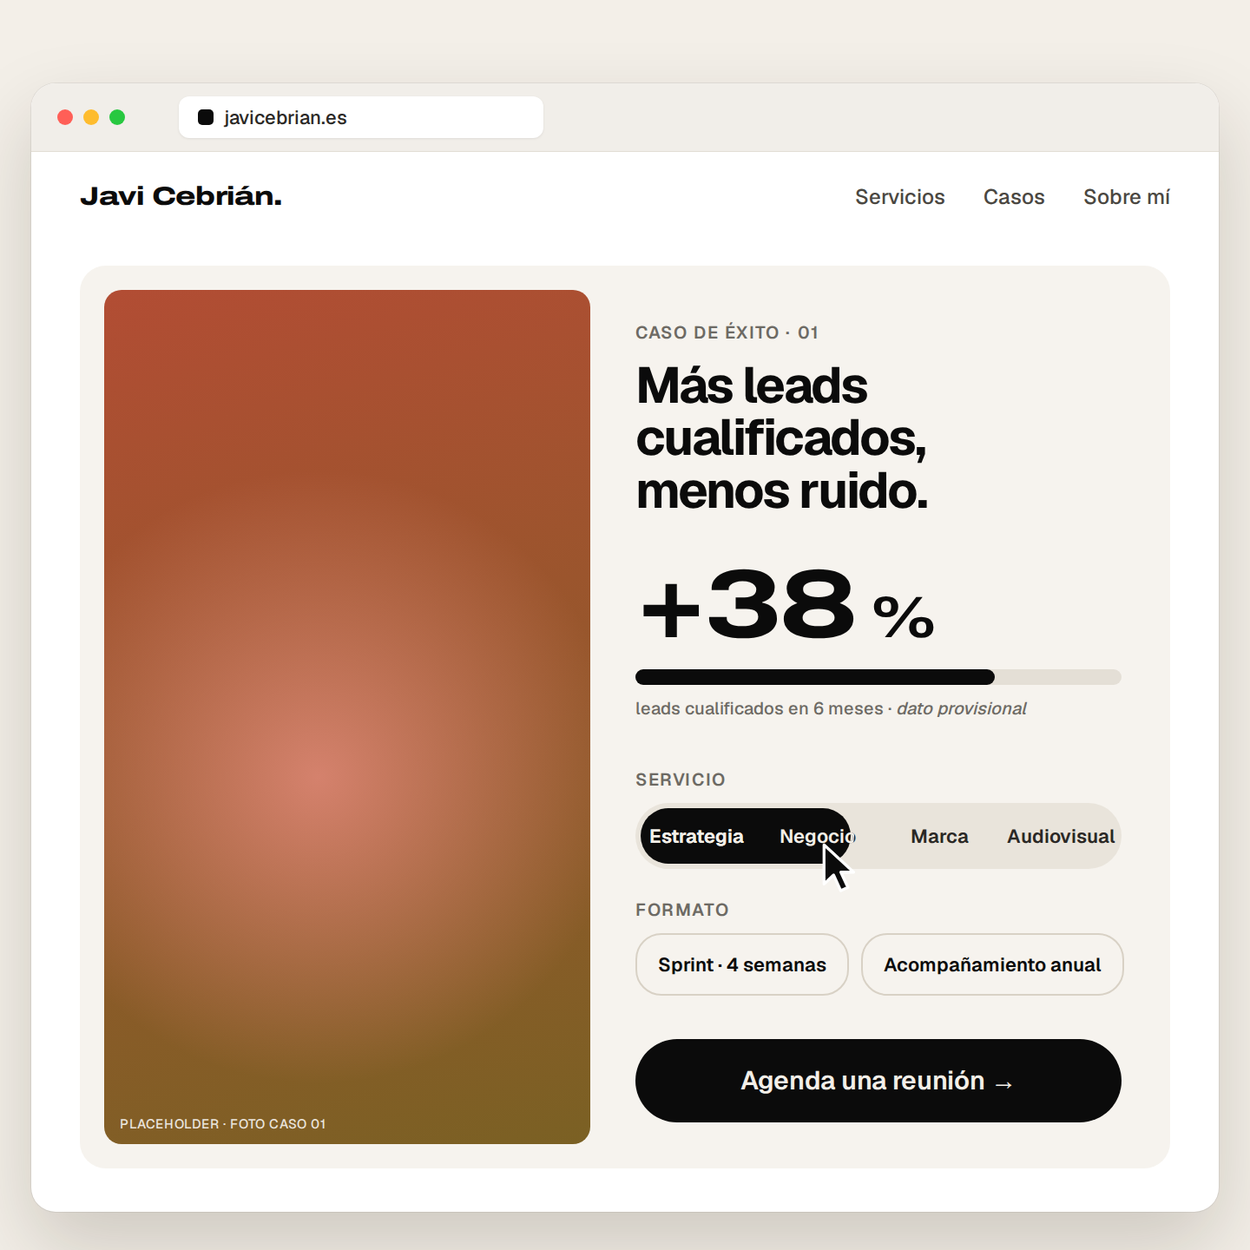
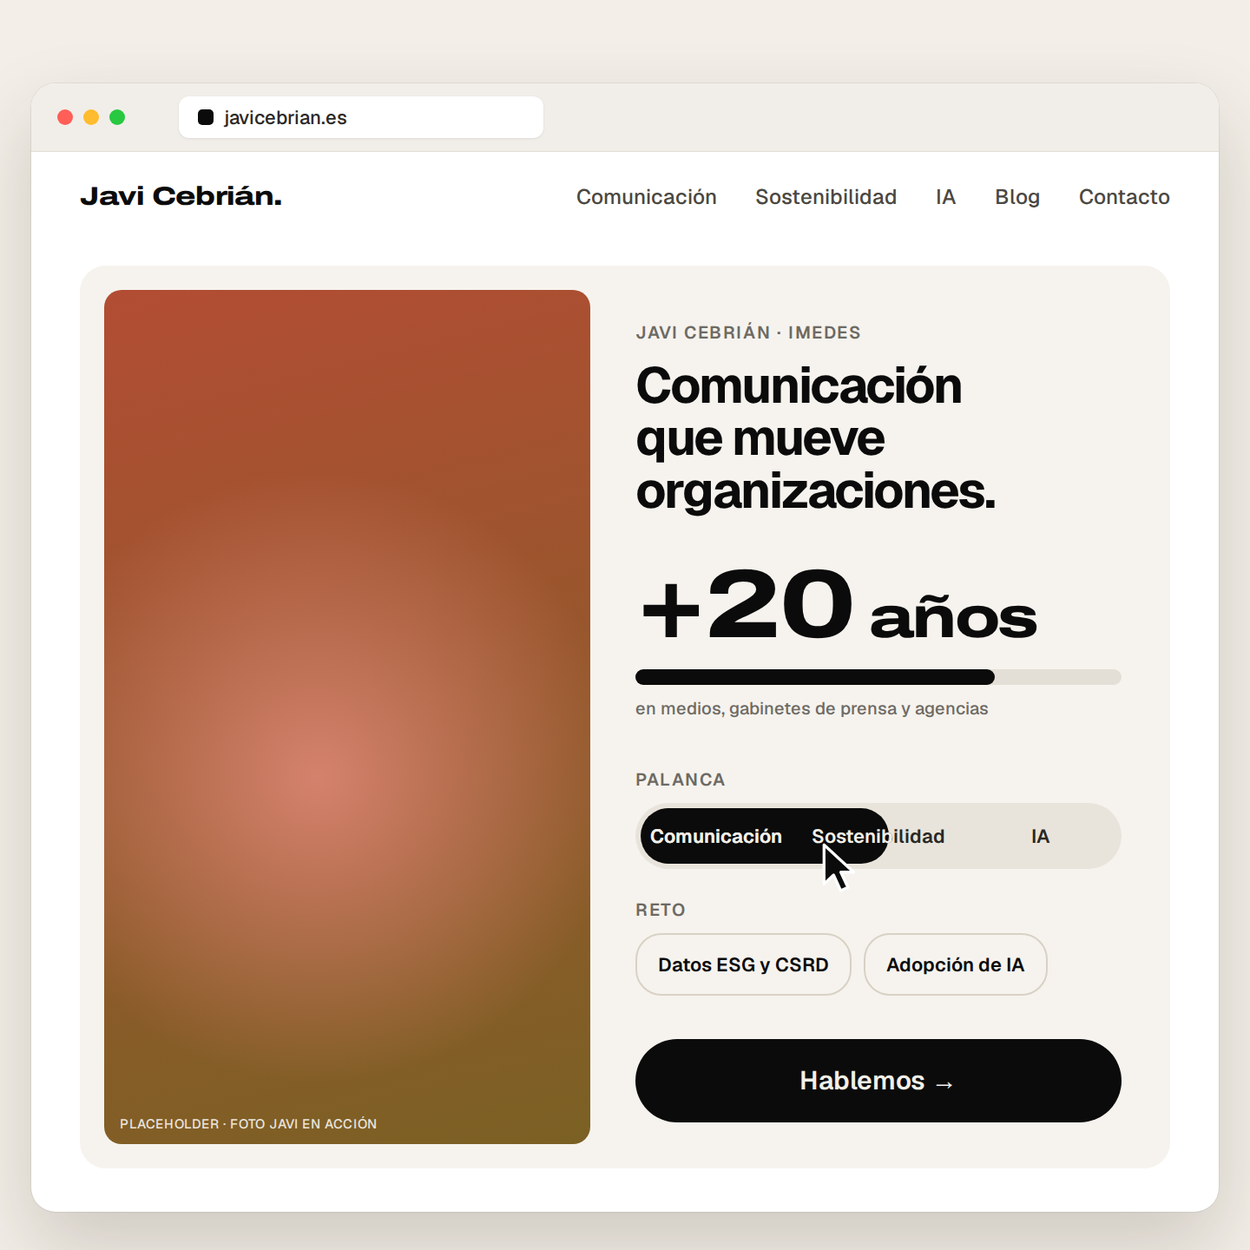
Align launch video with javicebrian.es positioning
Wordmark 'Mueve.', three levers (communication, sustainability/ESG, AI),
verifiable proof (+20 years), 'Hablemos' CTA, intention-to-decision slider.

Claude-Session: https://claude.ai/code/session_01VdQpA6ejCj5gpRECviLDFv

diff --git a/docs/video-javicebrian/stills.html b/docs/video-javicebrian/stills.html
@@ -189,14 +189,14 @@ glass() {
     display: 'flex', alignItems: 'center', justifyContent: 'center' }, c,
     `<svg width="46" height="46" viewBox="0 0 24 24" fill="none" stroke="#f3efe8" stroke-width="2" stroke-linecap="round">
       <path d="M4 7h10M18 7h2M4 17h4M12 17h8"/><circle cx="16" cy="7" r="2"/><circle cx="10" cy="17" r="2"/></svg>`);
-  el('div', { left: '170px', top: '30px', font: "600 26px 'Geist'", color: '#fff', textShadow: '0 1px 2px rgba(0,0,0,.25)' }, c, 'Luz');
+  el('div', { left: '170px', top: '30px', font: "600 26px 'Geist'", color: '#fff', textShadow: '0 1px 2px rgba(0,0,0,.25)' }, c, 'Intención');
   // track
   const trackL = 170, trackR = tb.w - 60, trackY = 108;
   el('div', { left: trackL + 'px', top: trackY + 'px', width: (trackR - trackL) + 'px', height: '8px', borderRadius: '4px',
     background: 'rgba(255,255,255,.38)' }, c);
   el('div', { left: trackL + 'px', top: trackY + 'px', width: (knobX - tb.x - trackL) + 'px', height: '8px', borderRadius: '4px',
     background: '#fff' }, c);
-  el('div', { right: '60px', top: '30px', font: "500 24px 'Geist'", color: 'rgba(255,255,255,.92)' }, c, 'Hora dorada');
+  el('div', { right: '60px', top: '30px', font: "500 24px 'Geist'", color: 'rgba(255,255,255,.92)' }, c, 'Decisión');
 
   // held knob, already swelling into a lens (beat 26 preview: magnifies what's behind it)
   const kd = 132, kx = knobX - kd / 2, ky = tb.y + trackY + 4 - kd / 2;
@@ -222,46 +222,46 @@ stage() {
     padding: '0 56px', boxSizing: 'border-box', gap: '44px', font: "500 24px 'Geist'", color: '#4a4741' }, win);
   el('div', { fontFamily: 'Archivo', fontWeight: 800, fontVariationSettings: "'wdth' 125", fontSize: '30px', color: '#0b0b0b',
     letterSpacing: '-.01em', marginRight: 'auto' }, nav, 'Javi Cebrián.');
-  ['Servicios', 'Casos', 'Sobre mí'].forEach(t => el('div', {}, nav, t));
+  ['Comunicación', 'Sostenibilidad', 'IA', 'Blog', 'Contacto'].forEach(t => el('div', {}, nav, t));
 
   // case card
   const card = el('div', { position: 'absolute', left: '56px', top: '210px', width: '1256px', height: '1040px', borderRadius: '30px',
     background: '#f6f3ee', overflow: 'hidden' }, win);
   const ph = el('div', { position: 'absolute', left: '28px', top: '28px', width: '560px', height: '984px', borderRadius: '20px',
-    overflow: 'hidden' }, card, photo(2, 'placeholder · foto caso 01'));
+    overflow: 'hidden' }, card, photo(2, 'placeholder · foto Javi en acción'));
   const R = el('div', { position: 'absolute', left: '640px', top: '64px', right: '56px' }, card);
-  el('div', { font: "600 20px 'Geist'", letterSpacing: '.08em', textTransform: 'uppercase', color: 'var(--muted)' }, R, 'Caso de éxito · 01');
-  el('div', { font: "700 58px/1.04 'Geist'", letterSpacing: '-.035em', marginTop: '18px' }, R, 'Más leads<br>cualificados,<br>menos ruido.');
+  el('div', { font: "600 20px 'Geist'", letterSpacing: '.08em', textTransform: 'uppercase', color: 'var(--muted)' }, R, 'Javi Cebrián · Imedes');
+  el('div', { font: "700 58px/1.04 'Geist'", letterSpacing: '-.035em', marginTop: '18px' }, R, 'Comunicación<br>que mueve<br>organizaciones.');
   // metric bar (drawing across)
   el('div', { marginTop: '46px', fontFamily: 'Archivo', fontWeight: 800, fontVariationSettings: "'wdth' 125", fontSize: '112px',
-    lineHeight: 1, letterSpacing: '-.02em' }, R, '+38<span style="font-size:.6em"> %</span>');
+    lineHeight: 1, letterSpacing: '-.02em' }, R, '+20<span style="font-size:.6em"> años</span>');
   const tr = el('div', { position: 'relative', marginTop: '18px', height: '18px', borderRadius: '9px', background: '#e4dfd6' }, R);
   el('div', { position: 'absolute', left: 0, top: 0, bottom: 0, width: '74%', borderRadius: '9px', background: '#0b0b0b' }, tr);
-  el('div', { marginTop: '14px', font: "500 20px 'Geist'", color: 'var(--muted)' }, R, 'leads cualificados en 6 meses · <i>dato provisional</i>');
+  el('div', { marginTop: '14px', font: "500 20px 'Geist'", color: 'var(--muted)' }, R, 'en medios, gabinetes de prensa y agencias');
 
   // segmented control — paint wiping from segment 1 to segment 2
-  el('div', { marginTop: '56px', font: "600 20px 'Geist'", letterSpacing: '.08em', textTransform: 'uppercase', color: 'var(--muted)' }, R, 'Servicio');
+  el('div', { marginTop: '56px', font: "600 20px 'Geist'", letterSpacing: '.08em', textTransform: 'uppercase', color: 'var(--muted)' }, R, 'Palanca');
   const seg = el('div', { position: 'relative', marginTop: '14px', height: '76px', borderRadius: '38px', background: '#e9e4db',
     display: 'flex', overflow: 'hidden' }, R);
-  const labels = ['Estrategia', 'Negocio', 'Marca', 'Audiovisual'];
-  const paint = el('div', { position: 'absolute', left: '6px', top: '6px', bottom: '6px', width: '242px', borderRadius: '32px',
+  const labels = ['Comunicación', 'Sostenibilidad', 'IA'];
+  const paint = el('div', { position: 'absolute', left: '6px', top: '6px', bottom: '6px', width: '286px', borderRadius: '32px',
     background: '#0b0b0b' }, seg); // grown from seg 1 to half of seg 2 (spring in flight)
   labels.forEach((t, i) => el('div', { position: 'relative', flex: 1, display: 'flex', alignItems: 'center', justifyContent: 'center',
     font: "600 22px 'Geist'", color: i < 1 ? '#f3efe8' : '#2a2825' }, seg, t));
   // clip the label colour with the paint (text swap needs its own mask)
-  const segW = 556, cell = segW / 4;
-  const over = el('div', { position: 'absolute', inset: 0, display: 'flex', clipPath: `inset(6px ${segW - 248}px 6px 6px round 32px)` }, seg);
+  const segW = 556;
+  const over = el('div', { position: 'absolute', inset: 0, display: 'flex', clipPath: `inset(6px ${segW - 292}px 6px 6px round 32px)` }, seg);
   labels.forEach(t => el('div', { flex: 1, display: 'flex', alignItems: 'center', justifyContent: 'center',
     font: "600 22px 'Geist'", color: '#f3efe8' }, over, t));
 
-  el('div', { marginTop: '34px', font: "600 20px 'Geist'", letterSpacing: '.08em', textTransform: 'uppercase', color: 'var(--muted)' }, R, 'Formato');
+  el('div', { marginTop: '34px', font: "600 20px 'Geist'", letterSpacing: '.08em', textTransform: 'uppercase', color: 'var(--muted)' }, R, 'Reto');
   const chips = el('div', { marginTop: '14px', display: 'flex', gap: '14px' }, R);
-  ['Sprint · 4 semanas', 'Acompañamiento anual'].forEach(t => el('div', { padding: '20px 24px', borderRadius: '30px', whiteSpace: 'nowrap',
+  ['Datos ESG y CSRD', 'Adopción de IA'].forEach(t => el('div', { padding: '20px 24px', borderRadius: '30px', whiteSpace: 'nowrap',
     border: '2px solid #d8d1c5', font: "600 22px 'Geist'" }, chips, t));
 
   // CTA (nav button lands here on beat 42)
   el('div', { marginTop: '50px', height: '96px', borderRadius: '48px', background: '#0b0b0b', color: '#f3efe8', display: 'flex',
-    alignItems: 'center', justifyContent: 'center', font: "600 30px 'Geist'", letterSpacing: '-.01em' }, R, 'Agenda una reunión →');
+    alignItems: 'center', justifyContent: 'center', font: "600 30px 'Geist'", letterSpacing: '-.01em' }, R, 'Hablemos →');
 
   cursor(36 + 56 + 640 + 214, 96 + 210 + 664, 1.25, true);
 },
@@ -295,10 +295,10 @@ wall() {
     height: fh - 2 * (mold + mat) - 70 + 'px', overflow: 'hidden', boxShadow: 'inset 0 0 0 1px rgba(0,0,0,.08)' });
   el('div', { position: 'absolute', inset: 0, background: portrait(1) }, art);
   el('div', { position: 'absolute', left: '26px', bottom: '22px', color: '#fff', fontFamily: 'Archivo', fontWeight: 800,
-    fontVariationSettings: "'wdth' 125", fontSize: '46px', lineHeight: .95, letterSpacing: '-.01em' }, art, 'Conecta.');
+    fontVariationSettings: "'wdth' 125", fontSize: '46px', lineHeight: .95, letterSpacing: '-.01em' }, art, 'Mueve.');
   el('div', { left: fx + mold + mat + 'px', top: fy + fh - mold - mat - 48 + 'px', width: fw - 2 * (mold + mat) + 'px',
-    display: 'flex', justifyContent: 'space-between', font: "500 18px 'Geist'", color: '#5b574f' }, S,
-    '<span>javicebrian.es</span><span>Campaña · 2026</span>');
+    display: 'flex', flexDirection: 'column', gap: '4px', font: "500 18px 'Geist'", color: '#5b574f' }, S,
+    '<span style="color:#1d1b18;font-weight:600">Comunicación que mueve organizaciones</span><span>javicebrian.es</span>');
 }
 };
 

diff --git a/docs/prompt-video-javicebrian.md b/docs/prompt-video-javicebrian.md
@@ -4,28 +4,38 @@
 > Cambio estratégico clave: el arco original vendía un *producto físico* (foto → lámina enmarcada → pedido → pared).
 > Aquí el arco vende un *servicio de alto valor*: **marca personal → web → caso de éxito → reunión agendada → proyecto en marcha → resultado visible en el mundo real**.
 > El vídeo no enseña "una web bonita": enseña el embudo de conversión funcionando.
+>
+> **Posicionamiento real de la web (fuente: javicebrian.es vía buscador, oct. 2026):** «Comunicación que mueve organizaciones».
+> Tres palancas: comunicación estratégica, sostenibilidad/ESG e IA aplicada a la comunicación. Promesa: que el resultado se vea
+> en el negocio, no solo en las intenciones. Más de 20 años en medios, gabinetes de prensa y agencias. Director de Comunicación
+> y Desarrollo de Negocio en Imedes.
 
 ---
 
 ```xml
 <context>
-El vídeo es la pieza de lanzamiento de JaviCebrian.es, la web profesional de Javi Cebrián
-(comunicación estratégica y desarrollo de negocio). Objetivo de negocio: que un directivo o
-institución entienda en 27 segundos qué hace Javi, vea pruebas y pulse "Agenda una reunión".
+El vídeo es la pieza de lanzamiento de JaviCebrian.es, la web profesional de Javi Cebrián, Director de
+Comunicación y Desarrollo de Negocio en Imedes. Claim: «Comunicación que mueve organizaciones». Tres palancas:
+comunicación estratégica (orientada a decisiones, no a calendarios), sostenibilidad/ESG (traducir datos ESG e
+informes CSRD a mensajes comprensibles) e IA aplicada a la comunicación (adopción con criterio: donde ahorra horas
+o multiplica capacidad sin perder la voz). Idea fuerza: decisiones de negocio, no intenciones.
+Objetivo de negocio: que un comité de dirección entienda las tres palancas en 27 segundos y pulse «Hablemos».
 Destino: LinkedIn (feed cuadrado), Instagram, cabecera de la propia web y presentaciones comerciales.
 Todo el texto en pantalla, en español.
 </context>
 
 <inputs>
 Pídeme:
-1. Una palabra para el wordmark (mejor un verbo en imperativo). Propuestas: "Conecta.", "Impulsa.", "Cuenta.", "Mueve.".
+1. Una palabra para el wordmark. Por defecto: "Mueve.", eco directo del claim «Comunicación que mueve organizaciones».
    Alternativa: "Cebrián." si priorizamos recuerdo de marca personal sobre mensaje.
-2. Capturas a 2x de JaviCebrian.es: home (hero), servicios, un caso de éxito y la página de contacto/agenda.
+2. Capturas a 2x de JaviCebrian.es: home (hero), las tres palancas, un artículo del blog y /contacto.
    Más el logo en SVG y la paleta/tipografías de la web si difieren de las de abajo.
 3. De 9 a 12 fotos en alta resolución: retratos de Javi (al menos uno de día y el MISMO encuadre en hora dorada),
    Javi en acción (ponencia, reunión, rodaje, sala de prensa) e imágenes de proyectos/clientes con permiso de uso.
-4. 3 a 5 casos de éxito con UNA cifra cada uno (p. ej. "+38 % leads", "3 instituciones", "1,2 M impactos"). Solo cifras verificables.
-5. Los 3–4 servicios tal como se nombran en la web (p. ej. Estrategia de comunicación · Desarrollo de negocio · Marca personal · Producción audiovisual).
+4. 1 a 3 pruebas con UNA cifra cada una. Por defecto, la verificable de la web: «+20 años en medios, gabinetes y agencias».
+   Si hay casos (p. ej. un informe CSRD convertido en campaña, una adopción de IA que ahorró X horas), su cifra y permiso de uso.
+5. Servicios: fijados desde la web. Comunicación estratégica · Sostenibilidad y ESG · IA aplicada a la comunicación.
+   Confirmar si el video debe mencionar Imedes (marca empleadora) o solo la marca personal.
 6. Pista musical libre de derechos ~120 BPM con drop y breakdown tranquilo (Mixkit, uso comercial gratuito).
 7. Clip de stock gratuito de una pared lisa con sombras de plantas en movimiento (Pexels).
 </inputs>
@@ -50,29 +60,31 @@ genéricas que suben sin dato real y claims sin cifra.
 Apertura — "Quién": el wordmark se comprime en su propio punto como un acordeón. El punto se expande en una píldora negra y
 dentro sube la etiqueta "javicebrian.es". Clic: seis láminas de iris se cierran sobre la etiqueta y se abren de golpe sobre
 el retrato principal de Javi. El círculo pasa a cuadrado y se encoge. Detrás se despliega una cuadrícula como un mapa de
-papel (centro, cruz, esquinas) con fotos de Javi en acción y proyectos; se reordena en un bento con 4 tiles etiquetados
-con los servicios. Un clic hace zoom en un tile y aterriza justo en el drop.
+papel (centro, cruz, esquinas) con fotos de Javi en acción y proyectos; se reordena en un bento con 3 tiles grandes etiquetados
+«Comunicación estratégica», «Sostenibilidad y ESG» e «IA aplicada», rodeados de fotos. Un clic hace zoom en un tile y aterriza justo en el drop.
 
-Cristal — "Cómo": la palabra "Estrategia" aparece en cristal letra a letra y se funde en una gota que se estira hasta formar
-una barra de herramientas de cristal. El icono de ajustes la convierte en un slider. Al arrastrarlo, el retrato pasa de luz
-de día a hora dorada (dos tomas alineadas): metáfora de "misma persona, mejor contada". El tirador sostenido se vuelve una
+Cristal — "Cómo": la palabra "Decisión" aparece en cristal letra a letra y se funde en una gota que se estira hasta formar
+una barra de herramientas de cristal. El icono de ajustes la convierte en un slider. Sus extremos se rotulan «Intención» y «Decisión». Al arrastrarlo, el retrato pasa de luz
+de día a hora dorada (dos tomas alineadas): la idea de la web, «resultados en el negocio, no intenciones». El tirador sostenido se vuelve una
 lente de cristal, sube y se convierte en un orbe; dentro se abre en círculo la foto de un caso de éxito, y el orbe crece
 hasta una pantalla de bloqueo con dígitos de reloj de cristal, la fecha y una notificación de cristal:
-"Nuevo lead · javicebrian.es". La barra de inicio se estira en un reproductor de cristal (la pista del vídeo).
+"Nueva consulta · javicebrian.es". La barra de inicio se estira en un reproductor de cristal (la pista del vídeo).
 
 Escenario — "Dónde": la pantalla de bloqueo se aleja y revela un teléfono, con el bisel creciendo desde el borde.
 La Dynamic Island se estira como líquido, se estrangula, vuela y se expande en una ventana de Mac que se enrolla como una persiana.
 Pulsación larga sobre el fondo de pantalla y arrastre a una pestaña de Safari "javicebrian.es". La página empuja hacia dentro;
-al soltar la imagen, se convierte en el hero real de la home (usar la captura). Scroll: el hero se transforma en la tarjeta
-de un caso de éxito; la cifra clave se dibuja como barra que cruza la tarjeta ("+38 %"). Se elige el servicio en un selector
-segmentado (el color pinta de lado a lado) y la duración (Sprint 4 semanas / Acompañamiento anual); después el botón de la
-navegación vuela hacia abajo y se convierte en "Agenda una reunión".
+al soltar la imagen, se convierte en el hero real de la home (usar la captura). Scroll: el hero se transforma en una
+tarjeta «Comunicación que mueve organizaciones»; la prueba se dibuja como barra que cruza la tarjeta («+20 años en medios,
+gabinetes y agencias»). Se elige la palanca en un selector segmentado (Comunicación / Sostenibilidad / IA; el color pinta de
+lado a lado) y el reto (Datos ESG y CSRD / Adopción de IA); después el «Contacto» de la navegación vuela hacia abajo y se
+convierte en «Hablemos».
 
 Conversión — una sola forma negra que cambia sin parar:
-Solicitud enviada ✓ → Diagnóstico % → Reunión confirmada (un calendario con el día marcándose) → Proyecto en marcha ✓.
+Mensaje enviado ✓ → Diagnóstico % → Reunión confirmada (un calendario con el día marcándose) → Decisión en marcha ✓.
 
-Mundo real — "Resultado": el círculo de "Proyecto en marcha" se expande hasta llenar de negro el encuadre, aguanta un tiempo y
-se encoge hasta convertirse en un cartel enmarcado de una campaña/caso colgado en la pared real del metraje. El mismo iris se
+Mundo real — "Resultado": el círculo de «Decisión en marcha» se expande hasta llenar de negro el encuadre, aguanta un tiempo y
+se encoge hasta convertirse en un cartel enmarcado colgado en la pared real del metraje («Mueve.» y el claim). Las
+sombras de plantas sobre la pared son intencionadas: son la palanca de sostenibilidad hecha imagen. El mismo iris se
 abre sobre el cartel y vuelve a cerrarse. El marco llena la pantalla, se contrae en la píldora → el punto → las letras
 vuelven a saltar con el tiempo de retorno. Último fotograma = primer fotograma (loop perfecto para redes).
 </structure>

diff --git a/docs/video-javicebrian/beat-map.md b/docs/video-javicebrian/beat-map.md
@@ -7,11 +7,11 @@ Si la pista elegida tiene el drop o el breakdown en otro compás, se desplaza el
 Columna **Negocio**: qué tiene que entender quien lo ve en cada bloque.
 
 ## 1 · Apertura: «Quién» (tiempos 1–16 · 0,0–8,0 s · intro)
-Negocio: marca personal reconocible y un portafolio de servicios claro.
+Negocio: marca personal reconocible y las tres palancas de la web: comunicación, sostenibilidad e IA.
 
 | # | t | Acción | Disparador | SFX |
 |---|---|---|---|---|
-| 1 | 0,0 | Wordmark «Conecta.» en reposo (= último fotograma) | — | — |
+| 1 | 0,0 | Wordmark «Mueve.» en reposo (= último fotograma) | — | — |
 | 2 | 0,5 | Las letras se comprimen hacia el punto (acordeón, wdth↓) | — | whoosh corto |
 | 3 | 1,0 | Solo queda el punto | — | tick |
 | 4 | 1,5 | El punto se expande en píldora negra | — | pop grave |
@@ -22,34 +22,34 @@ Negocio: marca personal reconocible y un portafolio de servicios claro.
 | 9 | 4,0 | El círculo pasa a cuadrado redondeado | — | — |
 | 10 | 4,5 | El cuadrado se encoge al centro | — | — |
 | 11 | 5,0 | La cuadrícula se despliega: centro | — | papel 1 |
-| 12 | 5,5 | Cruz (4 tiles) | — | papel 2 |
+| 12 | 5,5 | Cruz (4 fotos) | — | papel 2 |
 | 13 | 6,0 | Esquinas (8 tiles) | — | papel 3 |
-| 14 | 6,5 | Se reordena en bento: 4 tiles con los servicios | — | ticks |
-| 15 | 7,0 | El cursor va a «Estrategia de comunicación» | cursor | — |
+| 14 | 6,5 | Se reordena en bento: 3 palancas (Comunicación estratégica · Sostenibilidad y ESG · IA aplicada) | — | ticks |
+| 15 | 7,0 | El cursor va a «Comunicación estratégica» | cursor | — |
 | 16 | 7,5 | **Clic**: arranca el zoom de cámara | clic | riser |
 
 ## 2 · Cristal: «Cómo» (tiempos 17–30 · 8,0–15,0 s · DROP)
-Negocio: el método. La misma persona, mejor contada. Cada caso acaba en un lead.
+Negocio: de la intención a la decisión. Cada mensaje bien contado trae una consulta.
 
 | # | t | Acción | Disparador | SFX |
 |---|---|---|---|---|
 | 17 | 8,0 | **DROP**: el zoom aterriza; el tile llena el cuadrado | — | impacto |
-| 18 | 8,5 | «Estrategia» en cristal, letras 1–5 | — | glass ticks |
-| 19 | 9,0 | Letras 6–10 | — | glass ticks |
+| 18 | 8,5 | «Decisión» en cristal, letras 1–4 | — | glass ticks |
+| 19 | 9,0 | Letras 5–8 | — | glass ticks |
 | 20 | 9,5 | La palabra se funde en una gota (goo) | — | gota |
 | 21 | 10,0 | La gota se estira en una barra de herramientas de cristal | — | stretch |
 | 22 | 10,5 | Los iconos brotan desde escala 0 | — | pops ×4 |
 | 23 | 11,0 | **Clic** en ajustes: la barra se convierte en slider | clic | clic |
-| 24 | 11,5 | **Arrastre**: de día a hora dorada (barrido) | arrastre | slide |
+| 24 | 11,5 | **Arrastre** de «Intención» a «Decisión»: de día a hora dorada (barrido) | arrastre | slide |
 | 25 | 12,0 | El arrastre completa la hora dorada | arrastre | — |
 | 26 | 12,5 | **Pulsación larga**: el tirador se vuelve lente | long-press | háptico |
 | 27 | 13,0 | La lente sube y se hace orbe; dentro se abre la foto del caso | — | whoosh |
 | 28 | 13,5 | El orbe crece en pantalla de bloqueo | — | — |
-| 29 | 14,0 | Reloj de cristal, fecha y notificación «Nuevo lead · javicebrian.es» | — | notificación |
+| 29 | 14,0 | Reloj de cristal, fecha y notificación «Nueva consulta · javicebrian.es» | — | notificación |
 | 30 | 14,5 | La barra de inicio se estira en reproductor de cristal | — | stretch |
 
 ## 3 · Escenario: «Dónde» (tiempos 31–42 · 15,0–21,0 s)
-Negocio: la web convierte. Se ve el hero, una prueba con cifra y una llamada a la acción.
+Negocio: la web convierte. Se ven el claim, una prueba verificable (+20 años) y la llamada a la acción.
 
 | # | t | Acción | Disparador | SFX |
 |---|---|---|---|---|
@@ -61,23 +61,23 @@ Negocio: la web convierte. Se ve el hero, una prueba con cifra y una llamada a l
 | 36 | 17,5 | **Pulsación larga** sobre el fondo de pantalla | long-press | háptico |
 | 37 | 18,0 | **Arrastre** a la pestaña «javicebrian.es»; la página empuja | arrastre | — |
 | 38 | 18,5 | **Soltar**: la imagen es el hero de la home | drop | thump |
-| 39 | 19,0 | **Scroll**: el hero se transforma en tarjeta de caso; la barra «+38 %» se dibuja | scroll | scroll + barra |
-| 40 | 19,5 | **Clic** en el servicio: el color pinta el segmento | clic | clic |
-| 41 | 20,0 | **Clic** en la duración: «Sprint · 4 semanas» | clic | clic |
-| 42 | 20,5 | El botón de la navegación vuela y se vuelve «Agenda una reunión» | — | whoosh |
+| 39 | 19,0 | **Scroll**: el hero se transforma en la tarjeta del claim; la barra «+20 años» se dibuja | scroll | scroll + barra |
+| 40 | 19,5 | **Clic** en la palanca «Sostenibilidad»: el color pinta el segmento | clic | clic |
+| 41 | 20,0 | **Clic** en el reto: «Datos ESG y CSRD» | clic | clic |
+| 42 | 20,5 | «Contacto» vuela desde la navegación y se vuelve «Hablemos» | — | whoosh |
 
 ## 4 · Conversión (tiempos 43–46 · 21,0–23,0 s)
-Negocio: del clic a proyecto en marcha, sin fricción.
+Negocio: del clic a una decisión en marcha, sin fricción.
 
 | # | t | Acción | Disparador | SFX |
 |---|---|---|---|---|
-| 43 | 21,0 | **Clic** → forma negra «Solicitud enviada ✓» | clic | confirmación |
+| 43 | 21,0 | **Clic** → forma negra «Mensaje enviado ✓» | clic | confirmación |
 | 44 | 21,5 | «Diagnóstico 0→100 %» (la barra se dibuja) | — | ticks |
 | 45 | 22,0 | «Reunión confirmada»: calendario, el día se marca | — | tick |
-| 46 | 22,5 | «Proyecto en marcha ✓»: la forma pasa a círculo | — | confirmación |
+| 46 | 22,5 | «Decisión en marcha ✓»: la forma pasa a círculo | — | confirmación |
 
 ## 5 · Mundo real: «Resultado» (tiempos 47–54 · 23,0–27,0 s · BREAKDOWN → retorno)
-Negocio: el trabajo sale de la pantalla y se ve en el mundo.
+Negocio: el resultado se ve fuera de la pantalla. Las sombras de plantas son la sostenibilidad hecha imagen.
 
 | # | t | Acción | Disparador | SFX |
 |---|---|---|---|---|
@@ -88,7 +88,7 @@ Negocio: el trabajo sale de la pantalla y se ve en el mundo.
 | 51 | 25,0 | El iris se cierra | — | obturador |
 | 52 | 25,5 | El marco llena la pantalla | — | — |
 | 53 | 26,0 | Se contrae en la píldora y después en el punto | — | tick |
-| 54 | 26,5 | **Beat de retorno**: las letras saltan de vuelta, «Conecta.» (= tiempo 1) | — | pop + downbeat |
+| 54 | 26,5 | **Beat de retorno**: las letras saltan de vuelta, «Mueve.» (= tiempo 1) | — | pop + downbeat |
 
 ## Comprobaciones del mapa
 - Los 54 tiempos tienen acción: no hay pausas de más de 1 s salvo el negro del tiempo 48, que dura 0,5 s.
